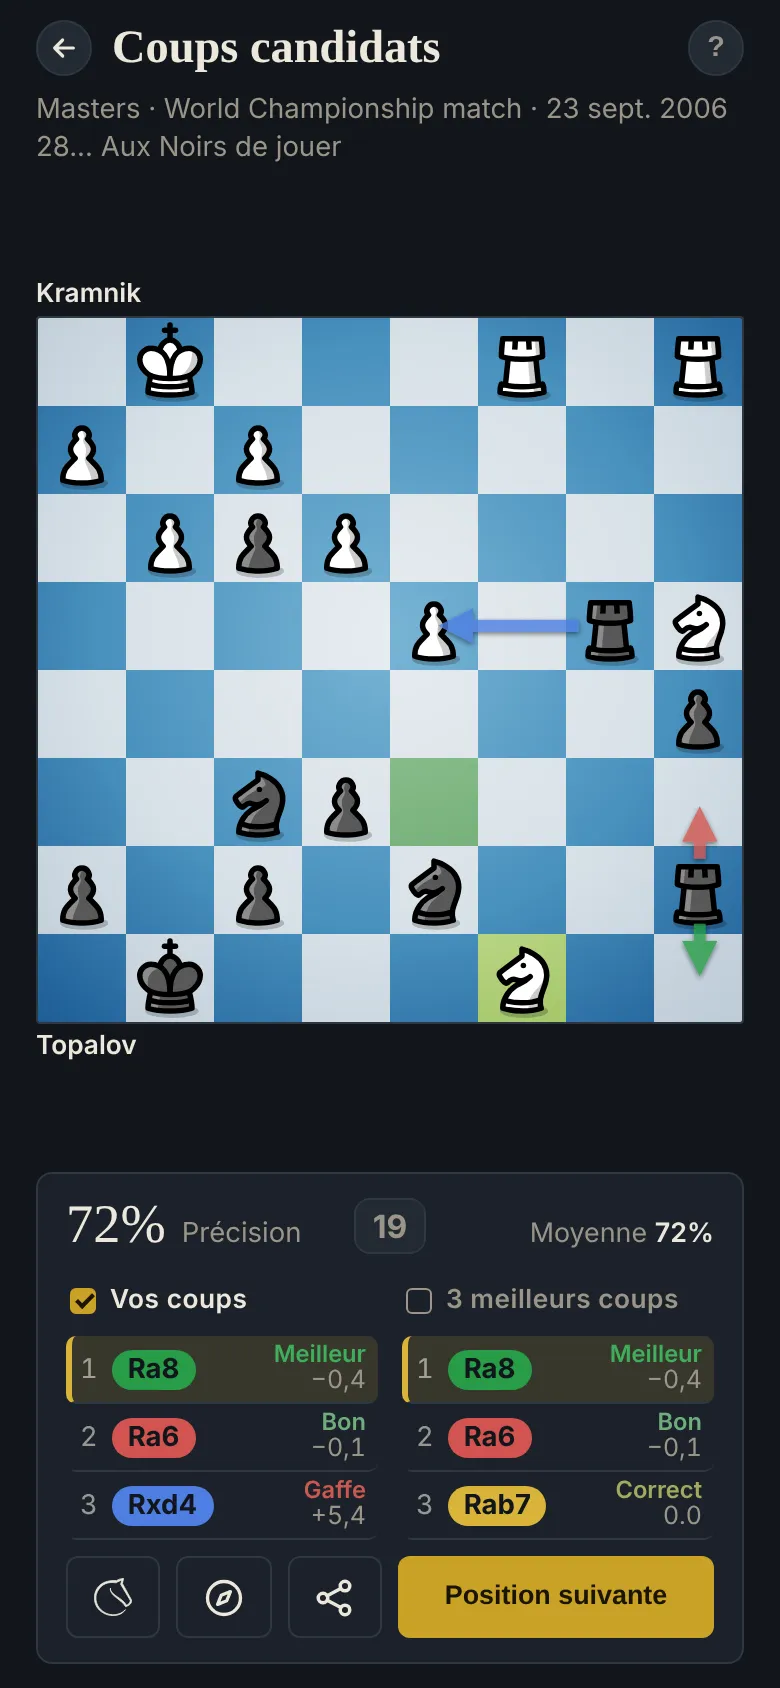
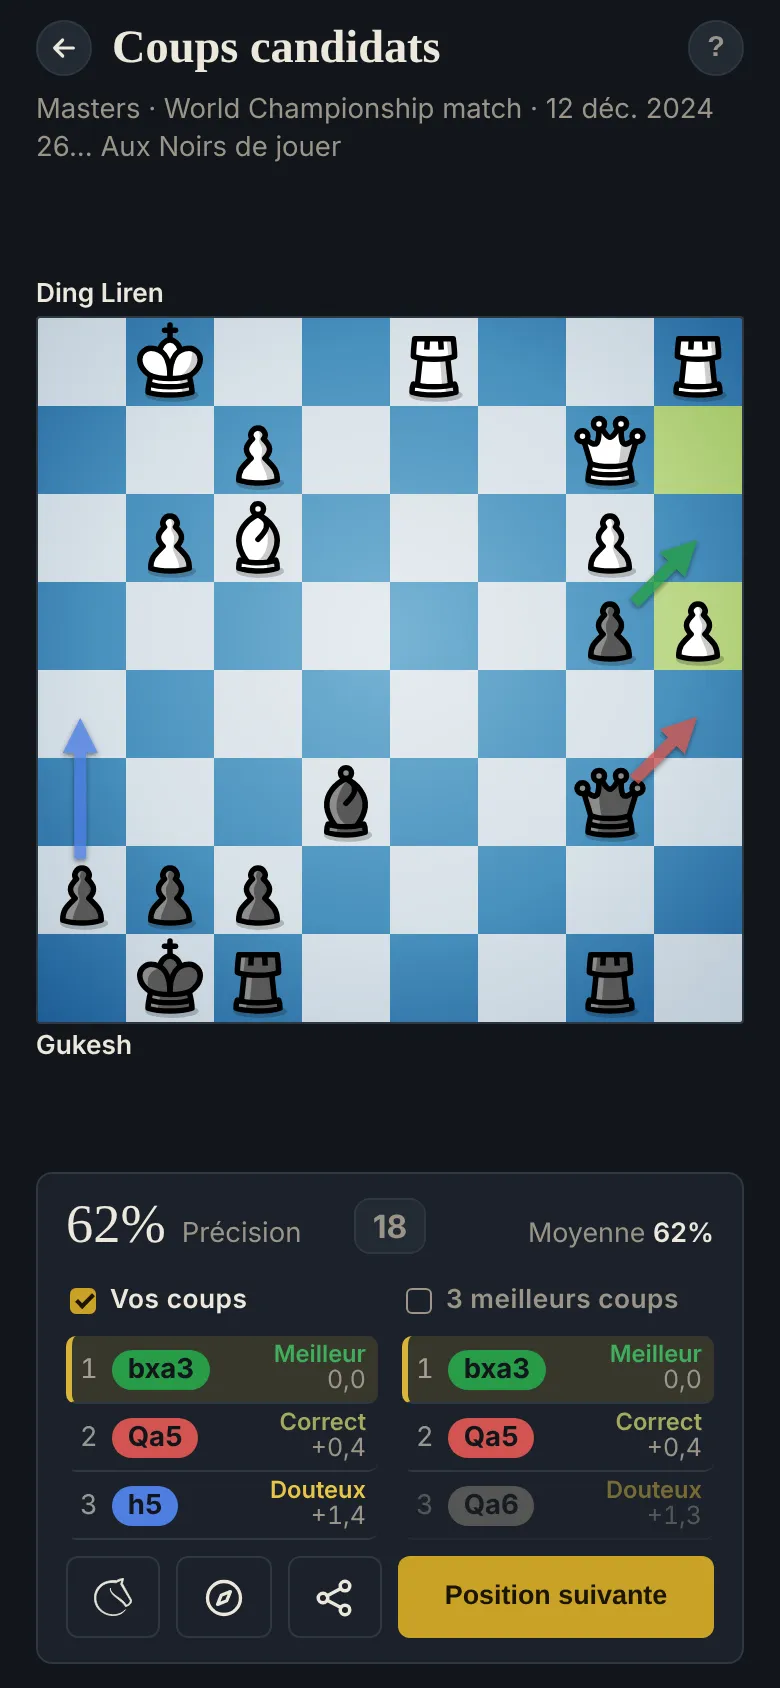
Candidate moves guide: an example where the engine's own 3rd move is dubious
Claude-Session: https://claude.ai/code/session_01MnfZY7zM1xtVVHQnQ5TNNV

diff --git a/fr/guides/coups-candidats/index.html b/fr/guides/coups-candidats/index.html
@@ -54,7 +54,7 @@
 <h1>Coups candidats</h1>
 <p class="sub">Trouver un ou plusieurs bons coups</p>
 <p class="lead">La plupart des erreurs viennent du premier coup qui a l'air bon. Le conseil d'Alexandre Kotov : dresser d'abord la liste de quelques options sérieuses, puis choisir.</p>
-<figure><img src="../../../learn/img/candidate-moves-fr.webp" width="390" height="844" alt="Correction de Coups candidats sur une position du championnat du monde 2006 : Ra8 et Ra6, les deux meilleurs coups du moteur, puis Rxd4, une gaffe" loading="lazy"><figcaption>Ra8 et Ra6 ont été trouvés, mais Rxd4 perd du matériel : il ne rapporte rien et coûte environ un quart du score. S'arrêter à deux coups aurait fait 100 %.</figcaption></figure>
+<figure><img src="../../../learn/img/candidate-moves-fr.webp" width="390" height="844" alt="Correction de Coups candidats sur une position du championnat du monde 2024 : bxa3 et Qa5, les deux meilleurs coups du moteur, puis h5, douteux ; le 3e coup du moteur lui-même est douteux" loading="lazy"><figcaption>Seuls deux coups tiennent ici : bxa3 et Qa5. Même le 3e choix du moteur est douteux, donc un troisième coup ne pouvait que coûter des points : h5 ne rapporte rien, et s'arrêter à deux aurait fait 100 %.</figcaption></figure>
 <h2>Comment les trouver</h2>
 <ul>
   <li><strong>Les coups forcés d'abord</strong> : échecs, prises et menaces, des deux côtés.</li>

diff --git a/learn/candidate-moves/index.html b/learn/candidate-moves/index.html
@@ -54,7 +54,7 @@
 <h1>Candidate moves</h1>
 <p class="sub">Find one or more good moves</p>
 <p class="lead">Most mistakes come from playing the first move that looks good. Alexander Kotov's advice: list a few serious options first, then choose.</p>
-<figure><img src="../../learn/img/candidate-moves.webp" width="390" height="844" alt="Candidate moves review on a 2006 World Championship position: Ra8 and Ra6, the engine&#x27;s top two, then Rxd4, a blunder" loading="lazy"><figcaption>Ra8 and Ra6 were found, but Rxd4 loses material: it scores nothing and costs about a quarter of the score. Stopping at two moves would have scored 100%.</figcaption></figure>
+<figure><img src="../../learn/img/candidate-moves.webp" width="390" height="844" alt="Candidate moves review on a 2024 World Championship position: bxa3 and Qa5, the engine&#x27;s top two, then h5, dubious; the engine&#x27;s own 3rd move is dubious too" loading="lazy"><figcaption>Only two moves hold here: bxa3 and Qa5. Even the engine's 3rd choice is Dubious, so a third pick could only cost points: h5 scores nothing, and stopping at two would have scored 100%.</figcaption></figure>
 <h2>How to find them</h2>
 <ul>
   <li><strong>Forcing moves first</strong>: checks, captures and threats, for both sides.</li>

diff --git a/scripts/build-pages.py b/scripts/build-pages.py
@@ -102,8 +102,8 @@ GUIDES = [
       title='Candidate moves in chess: find more than one good move',
       desc='What candidate moves are, how to find them (checks, captures, threats, then the plan), and a free exercise grading your picks with Stockfish on master games and your own games.',
       lead="Most mistakes come from playing the first move that looks good. Alexander Kotov's advice: list a few serious options first, then choose.",
-      alt="Candidate moves review on a 2006 World Championship position: Ra8 and Ra6, the engine's top two, then Rxd4, a blunder",
-      caption="Ra8 and Ra6 were found, but Rxd4 loses material: it scores nothing and costs about a quarter of the score. Stopping at two moves would have scored 100%.",
+      alt="Candidate moves review on a 2024 World Championship position: bxa3 and Qa5, the engine's top two, then h5, dubious; the engine's own 3rd move is dubious too",
+      caption="Only two moves hold here: bxa3 and Qa5. Even the engine's 3rd choice is Dubious, so a third pick could only cost points: h5 scores nothing, and stopping at two would have scored 100%.",
       body="""
 <h2>How to find them</h2>
 <ul>
@@ -119,8 +119,8 @@ GUIDES = [
       title="Les coups candidats aux échecs : trouver plus d'un bon coup",
       desc="Ce que sont les coups candidats, comment les trouver (échecs, prises, menaces, puis le plan), et un exercice gratuit qui note vos choix avec Stockfish sur des parties de maîtres et vos propres parties.",
       lead="La plupart des erreurs viennent du premier coup qui a l'air bon. Le conseil d'Alexandre Kotov : dresser d'abord la liste de quelques options sérieuses, puis choisir.",
-      alt="Correction de Coups candidats sur une position du championnat du monde 2006 : Ra8 et Ra6, les deux meilleurs coups du moteur, puis Rxd4, une gaffe",
-      caption="Ra8 et Ra6 ont été trouvés, mais Rxd4 perd du matériel : il ne rapporte rien et coûte environ un quart du score. S'arrêter à deux coups aurait fait 100 %.",
+      alt="Correction de Coups candidats sur une position du championnat du monde 2024 : bxa3 et Qa5, les deux meilleurs coups du moteur, puis h5, douteux ; le 3e coup du moteur lui-même est douteux",
+      caption="Seuls deux coups tiennent ici : bxa3 et Qa5. Même le 3e choix du moteur est douteux, donc un troisième coup ne pouvait que coûter des points : h5 ne rapporte rien, et s'arrêter à deux aurait fait 100 %.",
       body="""
 <h2>Comment les trouver</h2>
 <ul>
